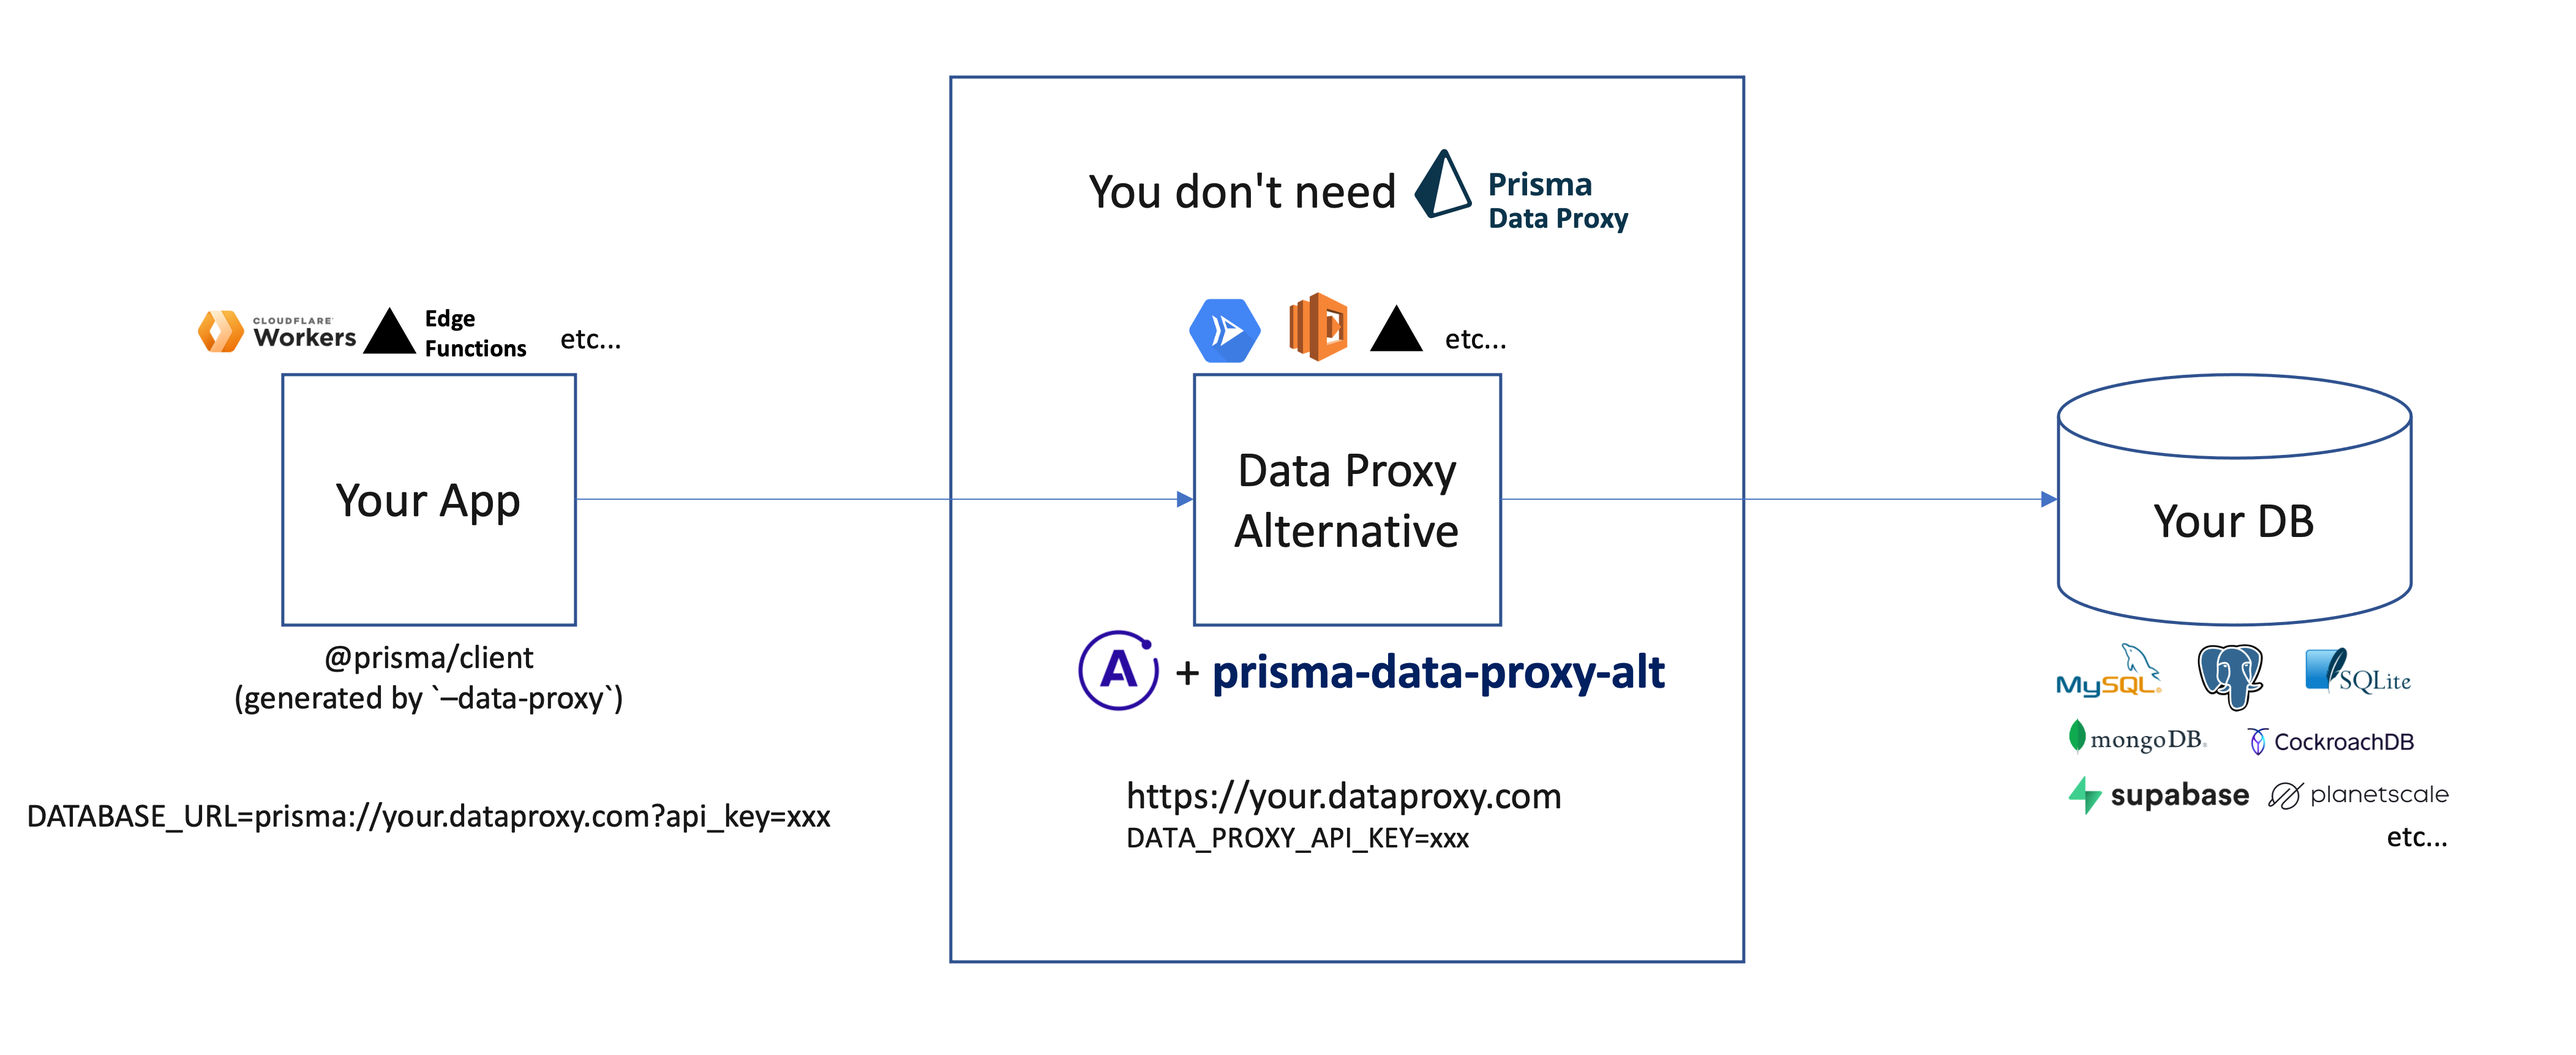
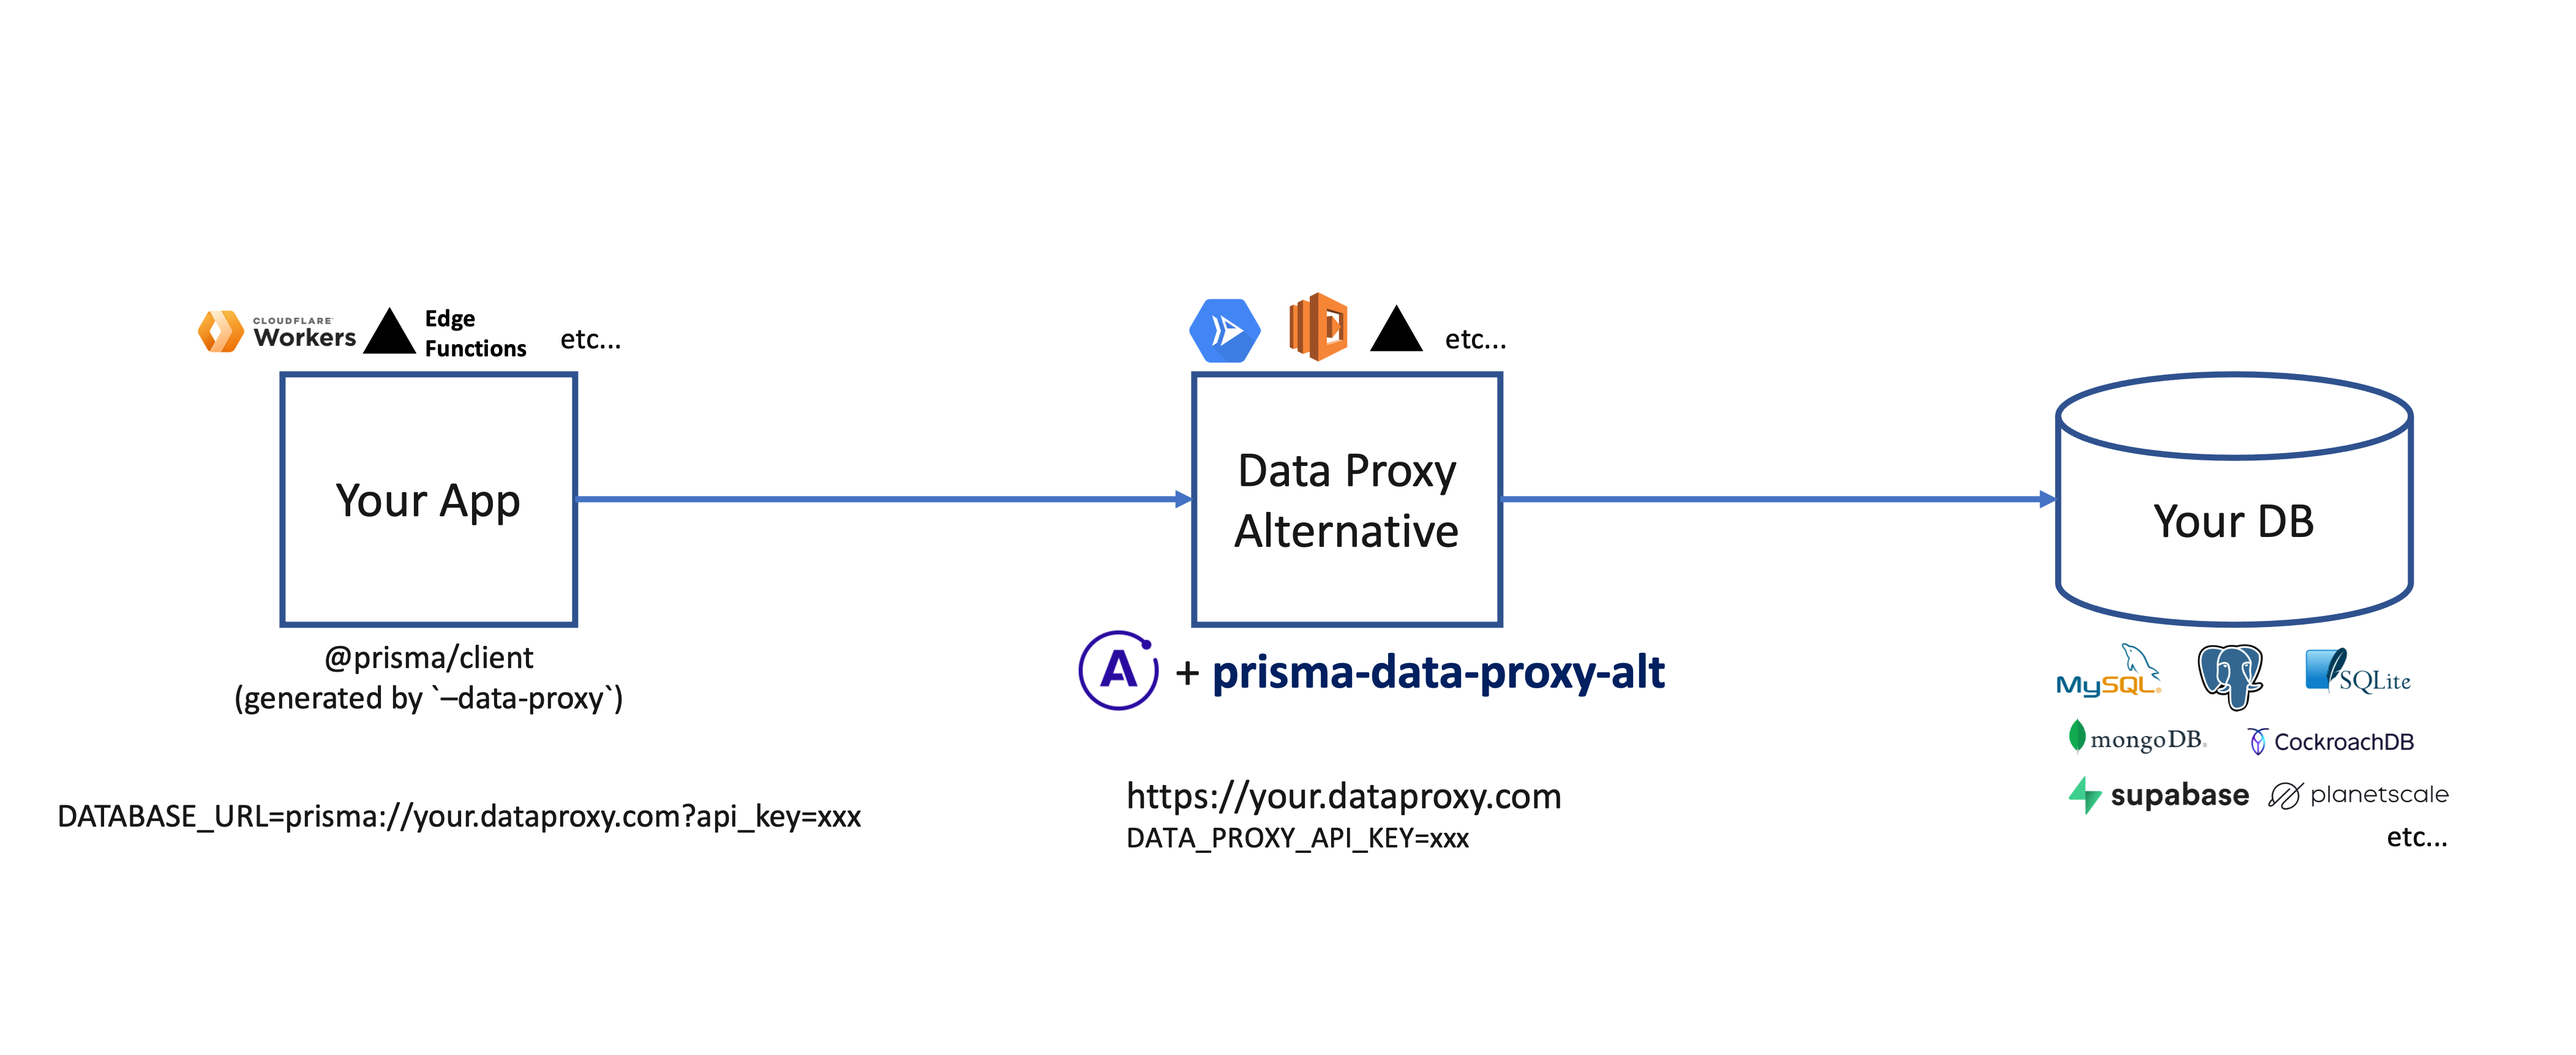
docs: update README

diff --git a/README.md b/README.md
@@ -1,4 +1,4 @@
-# Prisma Data Proxy Alternative
+# Alternative Prisma Data Proxy
 
 This is a library to alternate and self-host the [Prisma Data Proxy (cloud.prisma.io)](https://www.prisma.io/docs/concepts/data-platform/data-proxy).
 
@@ -10,14 +10,6 @@ You can deploy it on any platform in any region you like and use any data source
 
 No changes are required to your prisma client code, just set the `DATABASE_URL` to the URL you self-hosted with this library.
 
-### Caution 
-
-This library is unaffiliated with the Prisma development team and is unofficial.  
-
-Future updates to @prisma/client may make this library unavailable.
-
-Use at your own risk.
-
 ## Overview
 
 ![overview](./images/overview.png)
@@ -27,14 +19,12 @@ Use at your own risk.
 ### Setup proxy server
 
 First, an Apollo server is built as a substitute for the data proxy.  
-Use `express` as middleware.
 
 ```bash
 yarn add prisma-data-proxy-alt express apollo-server-express
 ```
 
 The server script is as follows.  
-Note that requests can reach paths other than `/graphql`. It is recommended that all paths be made available to receive requests.
 
 ```ts
 // index.ts
@@ -53,8 +43,8 @@ const apiKey = process.env.DATA_PROXY_API_KEY || "foo";
   const server = new ApolloServer(makeServerConfig(Prisma, db));
 
   await Promise.all([db.$connect(), server.start()]);
-  app.use(beforeMiddleware());
-  app.use(afterMiddleware({ apiKey }));
+  app.use(beforeMiddleware({ apiKey }));
+  app.use(afterMiddleware());
   server.applyMiddleware({ app, path: "/*" });
   app.listen({ port }, () =>
     console.log(
@@ -66,14 +56,17 @@ const apiKey = process.env.DATA_PROXY_API_KEY || "foo";
 
 ### Setup Prisma
 
-Include prisma schema in your project. **The same schema as the client must be made available for reference.**  
+Include prisma schema in your project. **The same schema as the client**.  
 
-Install `prisma` (to generate) and `@prisma/client`.
+```bash
+cp your_client_project_path/prisma/schema.prisma ./prisma/schema.prisma
+```
+
+Install `prisma` and `@prisma/client`.
 ```bash
 yarn add -D prisma
 yarn add @prisma/client
 ```
-
 
 ## Deploy 
 
@@ -145,27 +138,30 @@ substitutions:
   _DATA_PROXY_API_KEY: your_api_key
 ```
 
-From the GCP web console, link cloudbuild to the repository.
-Set `_REGION`, `_DATABASE_URL`, and `_DATA_PROXY_API_KEY` in the substitutions.
+Create a new trigger from the GCP Cloud Build web console and link it to your repository.  
 
-- `_REGION`: The region of cloud run deploy
-- `_DATABASE_URL`: Connection URL to your data source (mysql, postgres, etc.)
-- `_DATA_PROXY_API_KEY`: Arbitrary string to be used when connecting data proxy. This value is used as an authentication token for connections from the client.
+Set `_REGION`, `_DATABASE_URL`, and `_DATA_PROXY_API_KEY` in the substitution values.
+
+![](./images/gcp.png)
+
+- `_REGION`: The region of deploy target for Cloud Run
+- `_DATABASE_URL`: Connection URL to your data source (mysql, postgres, etc...)
+- `_DATA_PROXY_API_KEY`: Arbitrary string to be used when connecting data proxy. e.g. `prisma://your.deployed.domain?api_key={DATA_PROXY_API_KEY}`  
   (do not divulge it to outside parties)
 
-Note the URL of the cloud run after deployment is complete.
+## For Client (on your application)
 
-## For Client
-
-On the client side, prisma client is generated in data proxy mode.
+On the client side, generate the Prisma client in data proxy mode `--data-proxy`. [official document](https://www.prisma.io/docs/concepts/data-platform/data-proxy#step-4-generate-the-client)
 ```bash
 yarn prisma generate --data-proxy
 ```
 
-Create a `DATABSE_URL` from the domain of the server you deployed and the api key (`DATA_PROXY_API_KEY`) you set for it.
+Set the `DATABSE_URL` from the domain of the server you deployed and the api key (`DATA_PROXY_API_KEY`) you set for it.
 ```
 DATABSE_URL=prisma://${YOUR_DEPLOYED_PROJECT_DOMAIN}?api_key=${DATA_PROXY_API_KEY}
 ```
+
+**Now you can connect to the (alternative) Data Proxy from your application. 🎉**
 
 ## Contribution
 
